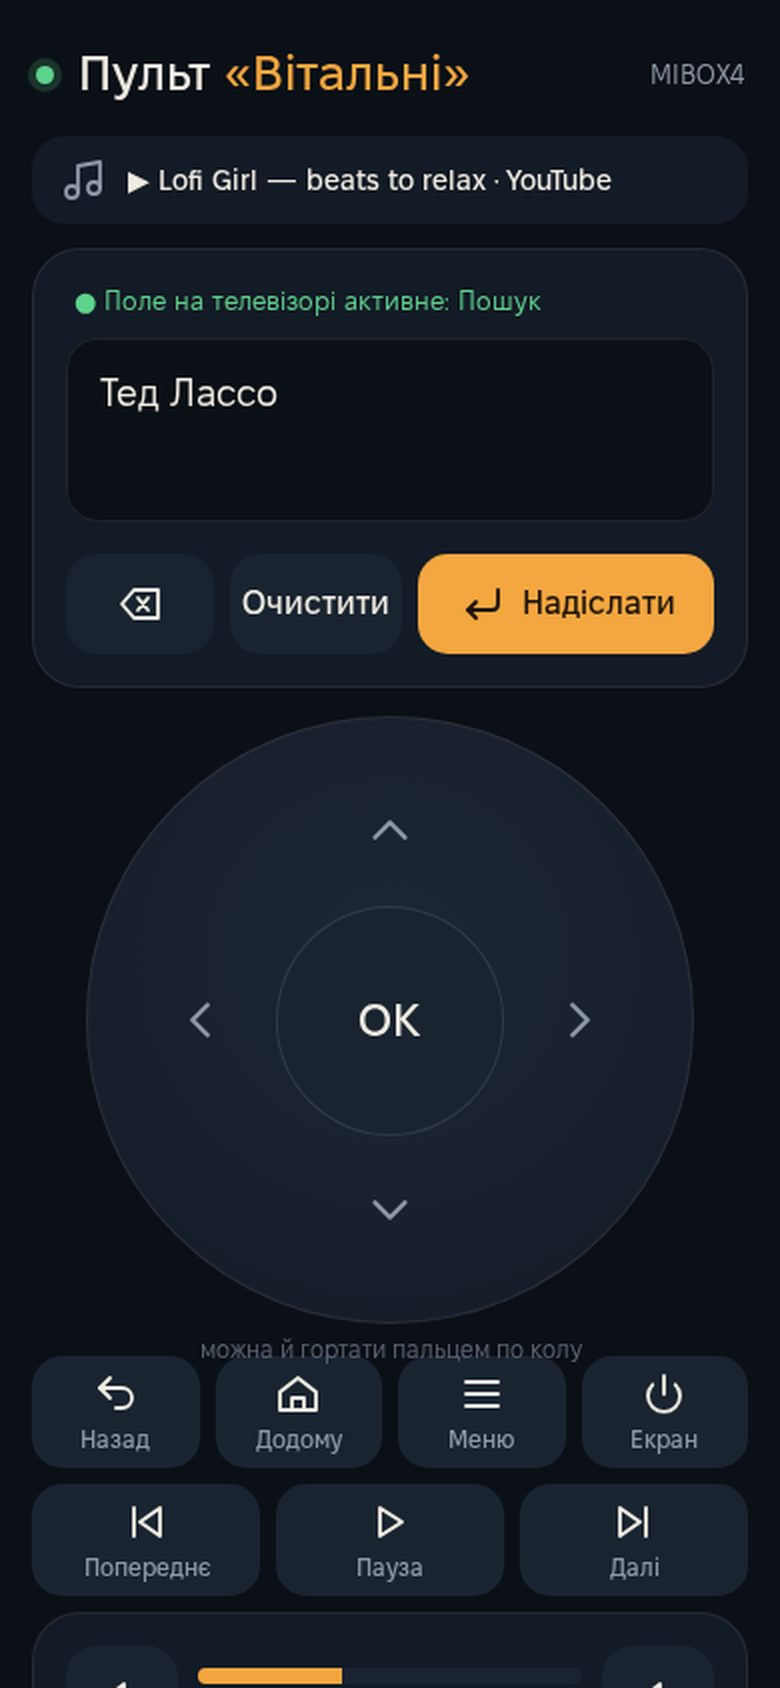
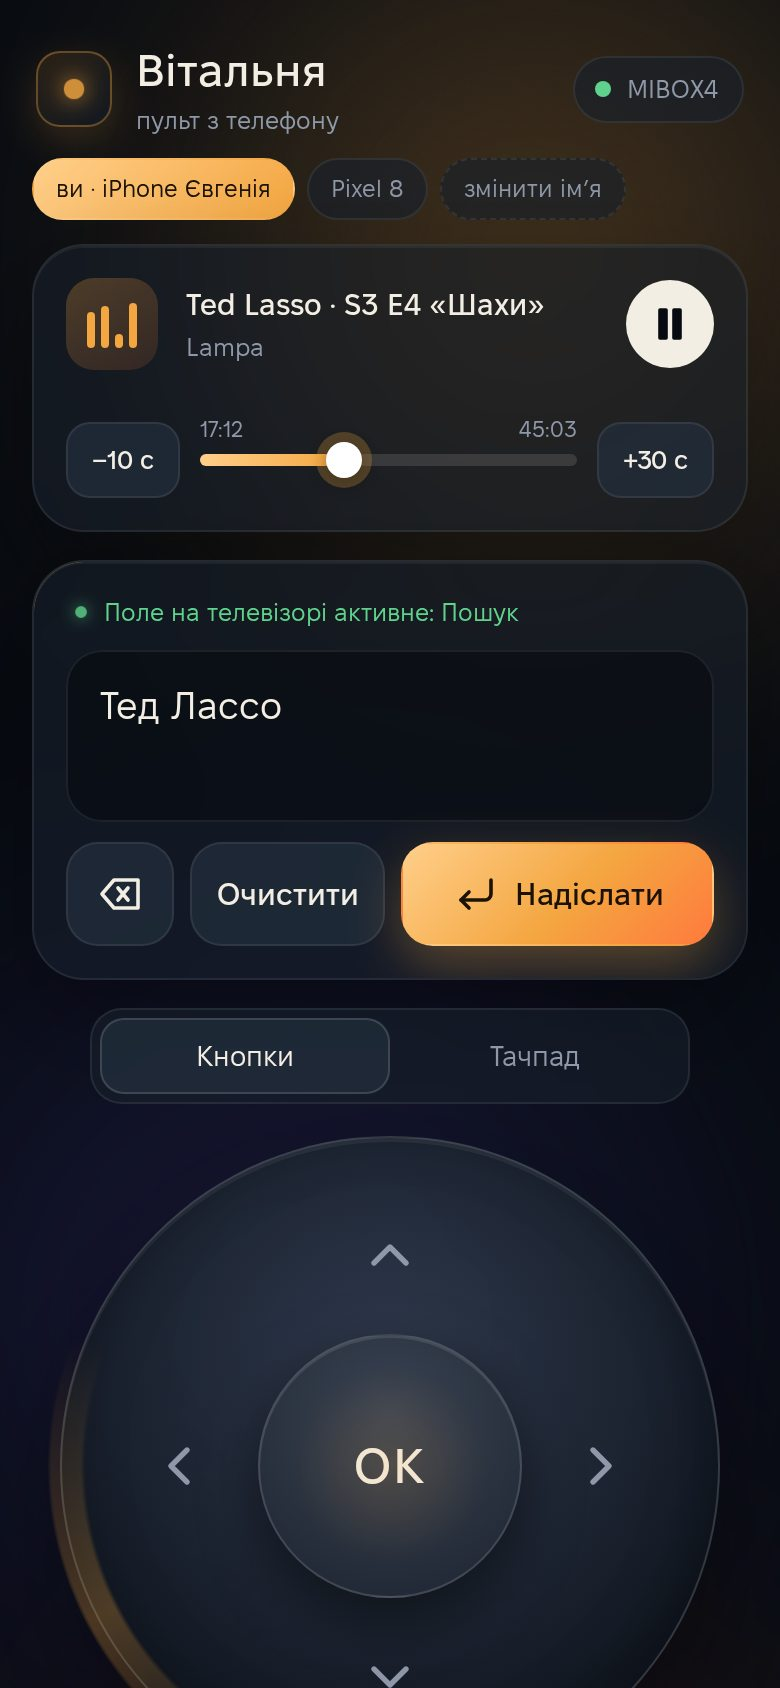
Fresh phone-remote screenshots on the site and in the README
Claude-Session: https://claude.ai/code/session_01AvN6vkHLuNVKwoK2TiD4Hk

diff --git a/site/index.html b/site/index.html
@@ -145,7 +145,8 @@ footer a { color: var(--muted); }
   .band { padding: 50px 22px; }
 }
 @media (prefers-reduced-motion: reduce) { *, *::before { animation: none !important; transition: none !important; } .reveal { opacity: 1; transform: none; } }
-.phones { display: grid; grid-template-columns: 1.35fr .65fr; gap: 22px; align-items: end; }
+.phones { display: grid; grid-template-columns: 1fr 1fr 1fr; gap: 16px; align-items: start; }
+.phones .shot { grid-column: 1 / -1; }
 .phones .pm img { width: 100%; border-radius: 26px; border: 1px solid var(--line); box-shadow: 0 30px 80px rgba(0,0,0,.45); }
 @media (max-width: 760px) { .phones { grid-template-columns: 1fr; } .phones .pm { max-width: 300px; margin: 0 auto; } }
 </style>
@@ -222,7 +223,7 @@ footer a { color: var(--muted); }
         <p>Наведіть камеру телефону на QR-код у налаштуваннях — і пишіть з телефону в будь-якому полі на телевізорі: пошук YouTube чи Lampa, пароль Wi‑Fi. Кирилицею теж, без жодних застосунків.</p>
         <ul><li>Текст з’являється на телевізорі одразу, поки ви пишете</li><li>Стрілки, ОК, «Назад», «Додому», пауза, гучність, запуск програм</li><li>Працює в домашній мережі, захищено шестизначним кодом</li></ul>
       </div>
-      <div class="phones"><div class="shot"><img src="img/phone-tv.jpg?v=146" alt="Налаштування → Телефон: QR-код і код для підключення" loading="lazy" width="1600" height="900"></div><div class="pm"><img src="img/phone.jpg?v=146" alt="Пульт «Вітальні» на телефоні: поле для тексту, круглий джойстик, медіа й гучність" loading="lazy"></div></div>
+      <div class="phones"><div class="shot"><img src="img/phone-tv.jpg?v=146" alt="Налаштування → Телефон: QR-код і код для підключення" loading="lazy" width="1600" height="900"></div><div class="pm"><img src="img/phone.jpg?v=150" alt="Пульт «Вітальні» на телефоні: поле для тексту, круглий джойстик, медіа й гучність" loading="lazy"></div><div class="pm"><img src="img/phone-tp.jpg?v=150" alt="Тачпад: жести пальцем замість кнопок" loading="lazy"></div><div class="pm"><img src="img/phone-send.jpg?v=150" alt="З телефону на телевізор: фото, музика, посилання й встановлення APK" loading="lazy"></div></div>
     </div>
 
     <div class="feature flip reveal">

diff --git a/android/app/src/main/java/pl/pichkur/tvhome/VolumeFallback.java b/android/app/src/main/java/pl/pichkur/tvhome/VolumeFallback.java
@@ -1,0 +1,64 @@
+package pl.pichkur.tvhome;
+
+import android.content.BroadcastReceiver;
+import android.content.Context;
+import android.content.Intent;
+import android.content.IntentFilter;
+import android.media.AudioManager;
+import android.os.Build;
+import android.os.Handler;
+import android.os.Looper;
+import android.os.PowerManager;
+
+/** Android TV firmware can route hardware volume straight to AudioService, bypassing key filters. */
+final class VolumeFallback {
+    private static final String LEVEL = "android.media.VOLUME_CHANGED_ACTION";
+    private static final String MUTE = "android.media.STREAM_MUTE_CHANGED_ACTION";
+    private final Context context;
+    private final Runnable show;
+    private final Handler ui = new Handler(Looper.getMainLooper());
+    private VolumeChangeTracker tracker;
+    volatile boolean registered;
+    volatile int mirroredChanges, dismissRequests;
+    private final Runnable dismiss = this::dismissStock;
+    private void dismissStock() {
+        if (!registered || !MediaVolume.custom(context)) return;
+        try {
+            // Android 9 SystemUI's volume controller explicitly listens for this broadcast.
+            // Restrict it to registered SystemUI receivers; never send Back or change volume twice.
+            context.sendBroadcast(new Intent(Intent.ACTION_CLOSE_SYSTEM_DIALOGS).setPackage("com.android.systemui").addFlags(Intent.FLAG_RECEIVER_REGISTERED_ONLY));
+            dismissRequests++;
+        } catch (Exception ignored) { }
+    }
+    VolumeFallback(Context context, Runnable show) { this.context = context; this.show = show; }
+    void start() {
+        // Newer Android restricts closing system dialogs. This compatibility path is for the owner's
+        // Android 9 Mi Box, not a claim of replacing SystemUI on every Android version.
+        if (registered || Build.VERSION.SDK_INT > 30) return;
+        AudioManager a = (AudioManager)context.getSystemService(Context.AUDIO_SERVICE);
+        if (a == null) return;
+        tracker = new VolumeChangeTracker(a.getStreamVolume(AudioManager.STREAM_MUSIC), a.isStreamMute(AudioManager.STREAM_MUSIC));
+        IntentFilter filter = new IntentFilter(LEVEL); filter.addAction(MUTE);
+        try { context.registerReceiver(receiver, filter); registered = true; } catch (Exception ignored) { }
+    }
+    private final BroadcastReceiver receiver = new BroadcastReceiver() {
+        @Override public void onReceive(Context c, Intent intent) {
+            String action = intent.getAction();
+            if (!registered || (!LEVEL.equals(action) && !MUTE.equals(action)) || intent.getIntExtra("android.media.EXTRA_VOLUME_STREAM_TYPE", -1) != AudioManager.STREAM_MUSIC) return;
+            AudioManager a = (AudioManager)context.getSystemService(Context.AUDIO_SERVICE);
+            if (a == null) return;
+            int current = a.getStreamVolume(AudioManager.STREAM_MUSIC); boolean muted = a.isStreamMute(AudioManager.STREAM_MUSIC);
+            boolean changed = tracker.changed(current, muted, MediaVolume.wasOwnChange(current, muted));
+            PowerManager power = (PowerManager)context.getSystemService(Context.POWER_SERVICE);
+            if (!changed || !MediaVolume.custom(context) || a.isVolumeFixed() || (power != null && !power.isInteractive())) return;
+            mirroredChanges++; show.run();
+            ui.removeCallbacks(dismiss);
+            // Let the firmware's already-queued show callback run, then dismiss its stock panel.
+            ui.postDelayed(dismiss, 40);
+        }
+    };
+    void close() {
+        ui.removeCallbacksAndMessages(null);
+        if (registered) { registered = false; try { context.unregisterReceiver(receiver); } catch (Exception ignored) { } }
+    }
+}

diff --git a/android/app/src/main/java/pl/pichkur/tvhome/MediaVolume.java b/android/app/src/main/java/pl/pichkur/tvhome/MediaVolume.java
@@ -7,6 +7,14 @@ import org.json.JSONObject;
 
 /** All controls operate only on the box's media stream, never an HDMI/CEC TV command. */
 final class MediaVolume {
+    private static volatile boolean changing;
+    private static volatile long ownChangedAt;
+    private static volatile int ownLevel;
+    private static volatile boolean ownMuted;
+    static boolean wasOwnChange(int level, boolean muted) {
+        long age = System.currentTimeMillis() - ownChangedAt;
+        return changing || (age >= 0 && age < 600 && level == ownLevel && muted == ownMuted);
+    }
     private static AudioManager audio(Context c) { return (AudioManager) c.getSystemService(Context.AUDIO_SERVICE); }
     static boolean custom(Context c) { return c.getSharedPreferences("tvhome", Context.MODE_PRIVATE).getBoolean("vol_ui", true); }
     static boolean canShowCustom(Context c) {
@@ -31,6 +39,7 @@ final class MediaVolume {
             AudioManager a = audio(c);
             if (a == null) return new JSONObject().put("ok", false).put("error", "audio");
             if (a.isVolumeFixed()) return snapshot(c).put("ok", false).put("error", "volume-fixed");
+            changing = true;
             int flags = canShowCustom(c) ? 0 : AudioManager.FLAG_SHOW_UI;
             if (exact != null) {
                 int v = VolumeScale.clamp(exact, a.getStreamMaxVolume(AudioManager.STREAM_MUSIC));
@@ -38,6 +47,9 @@ final class MediaVolume {
                 if (v > 0 && a.isStreamMute(AudioManager.STREAM_MUSIC)) a.adjustStreamVolume(AudioManager.STREAM_MUSIC, AudioManager.ADJUST_UNMUTE, 0);
                 a.setStreamVolume(AudioManager.STREAM_MUSIC, v, flags);
             } else a.adjustStreamVolume(AudioManager.STREAM_MUSIC, direction, flags);
+            ownLevel = a.getStreamVolume(AudioManager.STREAM_MUSIC);
+            ownMuted = a.isStreamMute(AudioManager.STREAM_MUSIC);
+            ownChangedAt = System.currentTimeMillis();
             if (canShowCustom(c)) {
                 HomeGuardService g = HomeGuardService.instance;
                 if (g != null) g.showVolumeNow(); else MainActivity.instance.showVolumeNow();
@@ -45,7 +57,7 @@ final class MediaVolume {
             return snapshot(c);
         } catch (Exception ignored) {
             try { return new JSONObject().put("ok", false).put("error", "volume"); } catch (Exception impossible) { return new JSONObject(); }
-        }
+        } finally { changing = false; }
     }
     /** Tracks consumed DOWN/UP pairs; holding mute never toggles it repeatedly. */
     static final class Keys {

diff --git a/android/app/src/main/java/pl/pichkur/tvhome/VolumeSupport.java b/android/app/src/main/java/pl/pichkur/tvhome/VolumeSupport.java
@@ -20,11 +20,16 @@ final class VolumeSupport {
             if (enabled != null) for (String item : enabled.split(":")) if (own.equals(ComponentName.unflattenFromString(item))) listed = true;
             HomeGuardService g = HomeGuardService.instance;
             AccessibilityServiceInfo info = g == null ? null : g.getServiceInfo();
+            o.put("androidSdk", android.os.Build.VERSION.SDK_INT);
             o.put("edition", BuildConfig.LITE ? "lite" : "full").put("version", BuildConfig.VERSION_NAME).put("uiEnabled", MediaVolume.custom(c));
             o.put("enabled", listed).put("connected", g != null);
             o.put("filterRequested", info != null && (info.flags & AccessibilityServiceInfo.FLAG_REQUEST_FILTER_KEY_EVENTS) != 0);
             o.put("filterCapable", info != null && (info.getCapabilities() & AccessibilityServiceInfo.CAPABILITY_CAN_REQUEST_FILTER_KEY_EVENTS) != 0);
             o.put("receivedKeys", g == null ? 0 : g.volumeKeysReceived).put("handledKeys", g == null ? 0 : g.volumeKeysHandled);
+            VolumeFallback fallback = g == null ? null : g.volumeFallback;
+            o.put("firmwareObserver", fallback != null && fallback.registered);
+            o.put("mirroredChanges", fallback == null ? 0 : fallback.mirroredChanges);
+            o.put("stockDismissRequests", fallback == null ? 0 : fallback.dismissRequests);
             JSONArray others = new JSONArray();
             AccessibilityManager a = (AccessibilityManager)c.getSystemService(Context.ACCESSIBILITY_SERVICE);
             if (a != null) for (AccessibilityServiceInfo service : a.getEnabledAccessibilityServiceList(AccessibilityServiceInfo.FEEDBACK_ALL_MASK)) {

diff --git a/tools/test/VolumeScaleTest.java b/tools/test/VolumeScaleTest.java
@@ -8,6 +8,14 @@ public class VolumeScaleTest {
             for(int v=0;v<=max;v++) { int p=VolumeScale.percent(v,max,false);if(p<prev||p>100||VolumeScale.percent(v,max,true)!=0)throw new AssertionError("monotonic/mute");prev=p;checks++; }
         }
         if(VolumeScale.percent(8,15,false)!=53 || VolumeScale.percent(7,15,false)!=47 || VolumeScale.percent(-1,15,false)!=0 || VolumeScale.percent(20,15,false)!=100 || VolumeScale.percent(8,0,false)!=0)throw new AssertionError("round/clamp");
+        VolumeChangeTracker tracker = new VolumeChangeTracker(8, false);
+        if(tracker.changed(8,false,false))throw new AssertionError("no initial popup");
+        if(!tracker.changed(9,false,false))throw new AssertionError("firmware change displayed");
+        if(tracker.changed(9,false,false))throw new AssertionError("duplicate suppressed");
+        if(tracker.changed(10,false,true))throw new AssertionError("own command suppressed");
+        if(tracker.changed(10,false,false))throw new AssertionError("own duplicate suppressed");
+        if(!tracker.changed(10,true,false)||!tracker.changed(10,false,false))throw new AssertionError("mute/unmute shown without level change");
+        System.out.println("Firmware volume tracker passed: initial/changed/duplicate/own/mute/unmute, no audio mutation.");
         System.out.println("Volume scale passed: "+checks+" stream steps, monotonic percentage, mute and clamping.");
     }
 }

diff --git a/android/app/src/main/java/pl/pichkur/tvhome/HomeGuardService.java b/android/app/src/main/java/pl/pichkur/tvhome/HomeGuardService.java
@@ -65,6 +65,7 @@ public class HomeGuardService extends AccessibilityService {
         super.onServiceConnected();
         instance = this;
         refreshVolumeKeyFilter();
+        if (volumeFallback == null) { volumeFallback = new VolumeFallback(this, this::showVolumeNow); volumeFallback.start(); }
         RemoteServer.start(this); // phone remote keeps working while other apps are in front
         if (!polling) {
             polling = true;
@@ -125,6 +126,7 @@ public class HomeGuardService extends AccessibilityService {
     // Physical keys and phone/settings commands share the same stream controller and native view.
     private final MediaVolume.Keys volumeKeys = new MediaVolume.Keys();
     private VolumeOverlay volumeOverlay;
+    VolumeFallback volumeFallback;
     private boolean onVolumeKey(KeyEvent event) {
         if (event.getAction() == KeyEvent.ACTION_DOWN) volumeKeysReceived++;
         boolean handled = volumeKeys.handle(this, event);
@@ -166,6 +168,7 @@ public class HomeGuardService extends AccessibilityService {
         ui.removeCallbacksAndMessages(null);
         hideBanner(false);
         volumeKeys.clear();
+        if (volumeFallback != null) volumeFallback.close();
         if (volumeOverlay != null) volumeOverlay.close();
         super.onDestroy();
     }

diff --git a/tools/test/MediaVolumeTest.java b/tools/test/MediaVolumeTest.java
@@ -17,6 +17,8 @@ public class MediaVolumeTest {
   keys.handle(c,new KeyEvent(0,25));keys.handle(c,new KeyEvent(0,25));keys.handle(c,new KeyEvent(1,25));check(c.audio.current==7,"volume hold still repeats");
   c.audio.muted=true;check(MediaVolume.change(c,12,0).optBoolean("ok"),"slider success");check(!c.audio.muted&&c.audio.current==12,"slider restores audible media");
   check(MediaVolume.snapshot(c).getInt("volPercent")==80,"native percentage");
+  check(MediaVolume.wasOwnChange(12,false),"own command signature suppresses duplicate firmware popup");
+  check(!MediaVolume.wasOwnChange(13,false),"different physical level is not suppressed");
   c.audio.fixed=true;int count=c.audio.changes;check(!MediaVolume.change(c,2,0).optBoolean("ok"),"fixed output rejected");check(!keys.handle(c,new KeyEvent(0,24)),"fixed keys go to firmware");check(count==c.audio.changes,"no changes to fixed output");c.audio.fixed=false;
   c.custom=false;check(!keys.handle(c,new KeyEvent(0,24)),"disabled custom UI leaves physical keys alone");MediaVolume.change(c,5,0);check(c.audio.flags==AudioManager.FLAG_SHOW_UI,"disabled uses system fallback");
   c.custom=true;keys.handle(c,new KeyEvent(0,24));c.custom=false;check(keys.handle(c,new KeyEvent(1,24)),"paired up remains consumed after preference change");

diff --git a/android/app/src/main/java/pl/pichkur/tvhome/VolumeChangeTracker.java b/android/app/src/main/java/pl/pichkur/tvhome/VolumeChangeTracker.java
@@ -1,0 +1,13 @@
+package pl.pichkur.tvhome;
+
+/** Deduplicates firmware notifications; own commands already display their confirmation. */
+final class VolumeChangeTracker {
+    private int current;
+    private boolean muted;
+    VolumeChangeTracker(int current, boolean muted) { this.current = current; this.muted = muted; }
+    boolean changed(int next, boolean nextMuted, boolean own) {
+        boolean different = next != current || nextMuted != muted;
+        current = next; muted = nextMuted;
+        return different && !own;
+    }
+}

diff --git a/README.md b/README.md
@@ -63,7 +63,9 @@ news and an app shelf. The UI is in Ukrainian. MIT licensed.*
 | ![Сапфір і золото](docs/screenshots/mirror.jpg) «Сапфір і золото», макет «Дзеркало» | ![Неон](docs/screenshots/neon.jpg) «Неон» |
 | ![Графіт і мідь](docs/screenshots/copper.jpg) «Графіт і мідь» | ![Мінімал](docs/screenshots/minimal.jpg) Макет «Мінімал» |
 
-<img src="docs/screenshots/phone.jpg" alt="Пульт «Вітальні» на телефоні" width="300"> &nbsp; Пульт на телефоні: текст одразу з’являється в полі на телевізорі.
+<img src="docs/screenshots/phone.jpg" alt="Пульт: клавіатура й перемотка" width="260"> <img src="docs/screenshots/phone-tp.jpg" alt="Тачпад" width="260"> <img src="docs/screenshots/phone-send.jpg" alt="З телефону на телевізор" width="260">
+
+Пульт на телефоні: текст одразу з’являється в полі на телевізорі, тачпад із жестами, фото, музика й посилання — на телевізор, встановлення APK.
 
 ## Дві версії
 
